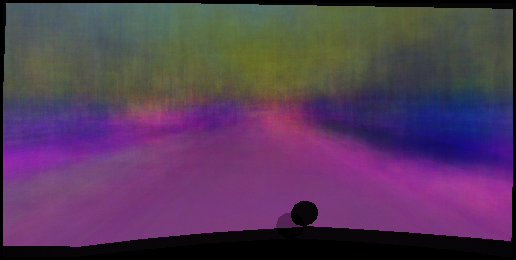
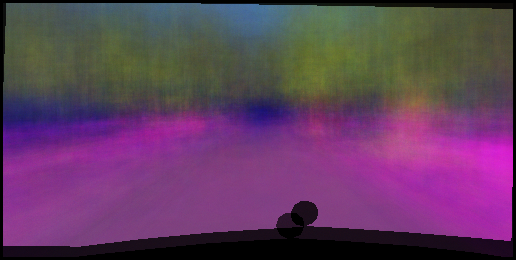
resize

diff --git a/generate_map.py b/generate_map.py
@@ -42,7 +42,8 @@ def post_processing(img_name, out_name):
     blur = cv2.medianBlur(img, 9)
     kernel = np.array([[0,-1,0], [-1,5,-1], [0,-1,0]])
     sharp = cv2.filter2D(blur, -1, kernel)
-    cv2.imwrite(out_name, blur)
+    resized = cv2.resize(sharp, (256, 512))
+    cv2.imwrite(out_name, resized)
     return blur
 
 class VAE(nn.Module):
@@ -105,5 +106,4 @@ if __name__ == '__main__':
         img = to_img(map.cpu().data)
         orig_img_name = "generated_maps/orig_map{}.png".format(i)
         save_image(img, orig_img_name)
- 
         post_processing(orig_img_name, "generated_maps/gen_map{}.png".format(i))
